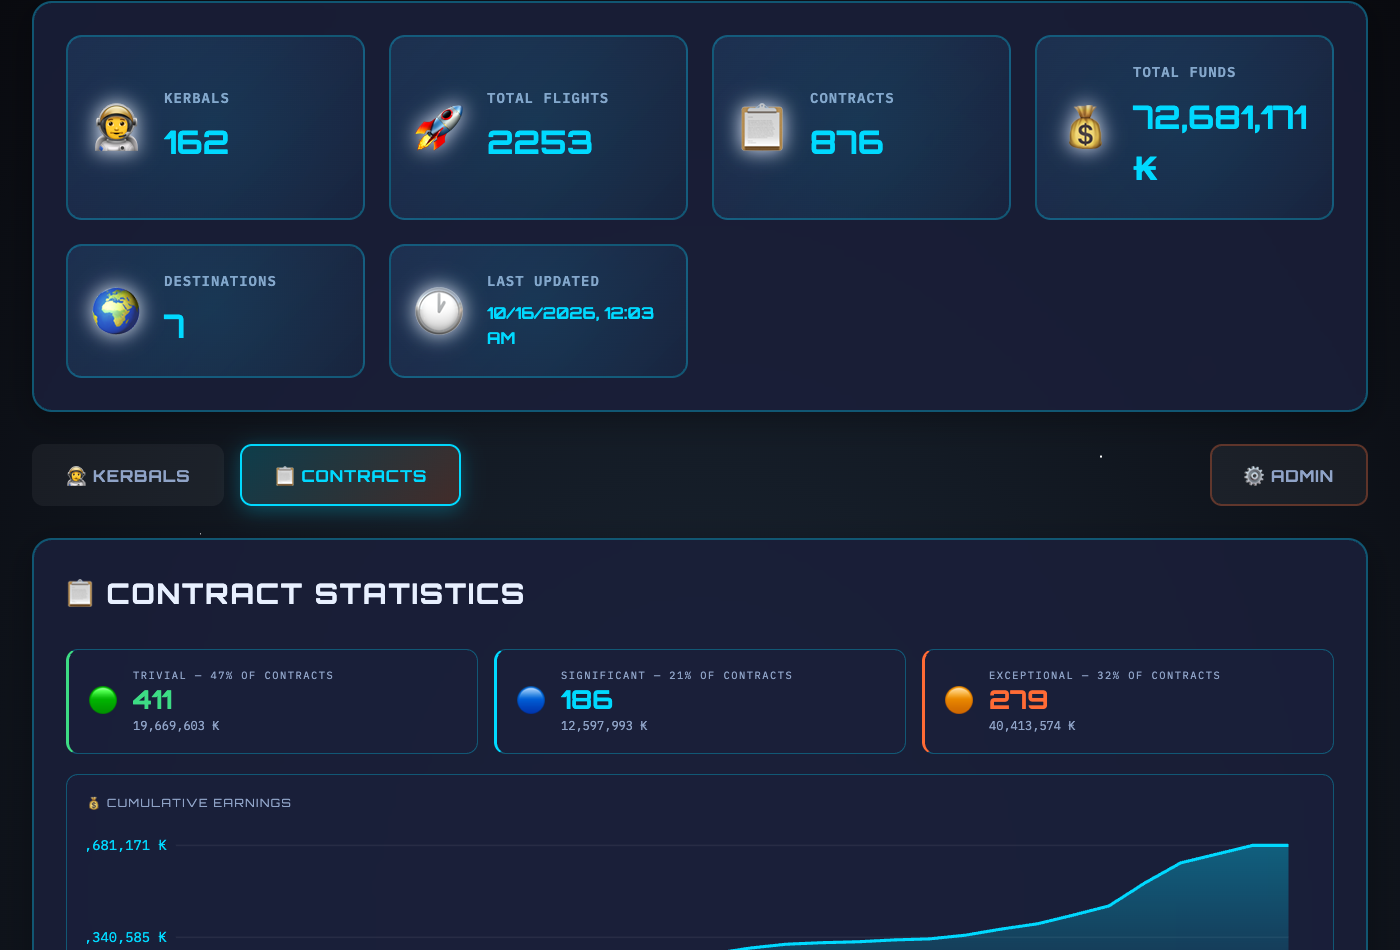
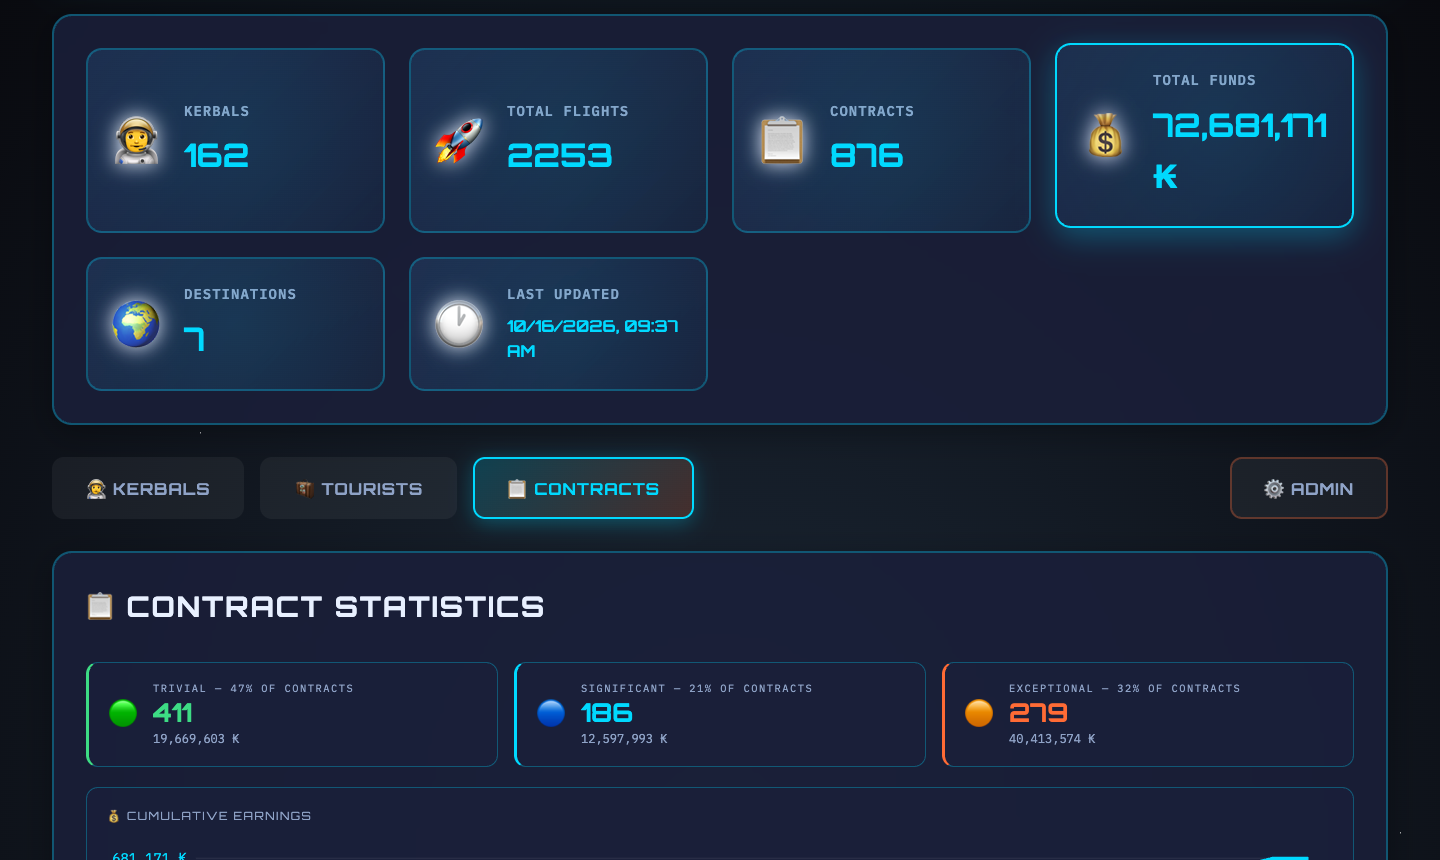
Add Tourist Roster with contract objectives and update README
- Tourist Roster tab: flying tourists show contract objectives per body
  (✓ green = complete, ○ yellow = pending) parsed from active CONTRACT
  blocks; tourists with all objectives done show 🏁 CONTRACT DONE badge
- Returned tourists grouped by contract mission (date, agency, names)
- parse_active_tourism_contracts(): reads KerbalTourParameter /
  KerbalDestinationParameter PARAM nesting from active TourismContracts
- DB: objectives column (JSON) on tourists table with ALTER TABLE migration
- Fix visit counts: mission-level deduplication via body_missions sets
- README: Tourist Roster section, /api/tourists endpoint, updated
  screenshots (kerbals, kerbal-detail, tourists-flying, tourists-returned,
  contracts, contract-detail)

diff --git a/static/app.js b/static/app.js
@@ -493,7 +493,8 @@ function renderTourists(tourists) {
         const avatar = t.gender === 'Female' ? '👩' : '👨';
         const bodyBadge = t.contract_body
             ? `<span class="tourist-body-badge">${escapeHtml(t.contract_body)}</span>` : '';
-        const top3   = t.locations.slice(0, 3);
+        const contractCompleteBadge = t.state === 'Flying' && !(t.objectives || []).length
+            ? `<span class="tourist-state-badge tourist-contract-done">🏁 CONTRACT DONE</span>` : '';
         const locStr = t.current_location && t.current_location !== 'Kerbin (KSC)'
             ? t.current_location : (t.current_location || '');
         return `<div class="tourist-card tourist-card--flying" style="animation-delay:${i * 0.04}s">
@@ -503,6 +504,7 @@ function renderTourists(tourists) {
                     <h3>${escapeHtml(t.name)}</h3>
                     <div class="tourist-badges">
                         <span class="tourist-state-badge ${si.cls}">${si.label}</span>
+                        ${contractCompleteBadge}
                         ${bodyBadge}
                     </div>
                 </div>
@@ -518,8 +520,29 @@ function renderTourists(tourists) {
                 <span class="current-loc-text">${escapeHtml(locStr)}</span>
                 ${t.current_vessel ? `<span class="current-vessel-sep">•</span><span class="current-vessel-name">🚀 ${escapeHtml(t.current_vessel)}</span>` : ''}
             </div>` : ''}
-            ${top3.length ? `<div class="tourist-locs">${top3.map(l =>
-                `<span class="tourist-loc-tag">${escapeHtml(l.location)}</span>`).join('')}</div>` : ''}
+            ${(() => {
+                const objs = t.objectives || [];
+                if (objs.length) {
+                    // Group contract objectives by body, preserve order
+                    const byBody = [];
+                    const seen = {};
+                    for (const o of objs) {
+                        if (!seen[o.body]) { seen[o.body] = []; byBody.push([o.body, seen[o.body]]); }
+                        seen[o.body].push(o);
+                    }
+                    return `<div class="tourist-trip">${byBody.map(([body, os]) =>
+                        `<div class="tourist-trip-body">
+                            <span class="tourist-loc-tag">${escapeHtml(body)}</span>
+                            ${os.map(o => `<span class="tourist-act-tag ${o.complete ? 'act-done' : 'act-pending'}">${o.complete ? '✓' : '○'} ${o.activity}</span>`).join('')}
+                        </div>`).join('')}</div>`;
+                }
+                // Fallback: show flight-log activities if no contract objectives
+                return t.locations.length ? `<div class="tourist-trip">${t.locations.map(l =>
+                    `<div class="tourist-trip-body">
+                        <span class="tourist-loc-tag">${escapeHtml(l.location)}</span>
+                        ${l.activities && l.activities.length ? l.activities.map(a => `<span class="tourist-act-tag">${a}</span>`).join('') : ''}
+                    </div>`).join('')}</div>` : '';
+            })()}
         </div>`;
     }).join('');
 
@@ -547,7 +570,7 @@ function renderTourists(tourists) {
                     <span class="tcg-count">${g.tourists.length} tourist${g.tourists.length > 1 ? 's' : ''}</span>
                 </div>
                 <div class="tcg-names">${g.tourists.map(t =>
-                    `<span class="tcg-name">${t.gender === 'Female' ? '👩' : '👨'} ${escapeHtml(t.name)}</span>`).join('')}
+                    `<span class="tcg-name">${escapeHtml(t.name)}</span>`).join('')}
                 </div>
             </div>`).join('')}
         </div>` : '';

diff --git a/static/styles.css b/static/styles.css
@@ -1729,6 +1729,50 @@ body {
     color: var(--text-secondary);
 }
 
+.tourist-trip {
+    margin-top: 0.65rem;
+    display: flex;
+    flex-direction: column;
+    gap: 0.35rem;
+}
+
+.tourist-trip-body {
+    display: flex;
+    flex-wrap: wrap;
+    align-items: center;
+    gap: 0.3rem;
+}
+
+.tourist-act-tag {
+    font-size: 0.65rem;
+    padding: 0.1rem 0.4rem;
+    background: rgba(0, 212, 255, 0.08);
+    border: 1px solid rgba(0, 212, 255, 0.25);
+    border-radius: 3px;
+    color: var(--accent-cyan);
+    font-family: 'IBM Plex Mono', monospace;
+    text-transform: uppercase;
+    letter-spacing: 0.03em;
+}
+
+.tourist-contract-done {
+    background: rgba(0, 255, 136, 0.12);
+    color: var(--success);
+    border: 1px solid rgba(0, 255, 136, 0.35);
+}
+
+.tourist-act-tag.act-done {
+    background: rgba(0, 255, 136, 0.1);
+    border-color: rgba(0, 255, 136, 0.35);
+    color: var(--success);
+}
+
+.tourist-act-tag.act-pending {
+    background: rgba(255, 217, 61, 0.08);
+    border-color: rgba(255, 217, 61, 0.3);
+    color: var(--warning);
+}
+
 .tourist-awaiting {
     background: rgba(255, 217, 61, 0.12);
     color: var(--warning);

diff --git a/sfs_parser.py b/sfs_parser.py
@@ -69,6 +69,8 @@ class TouristRecord:
     locations: Dict[str, int] = field(default_factory=dict)
     body_missions: Dict[str, set] = field(default_factory=dict)
     body_activities: Dict[str, set] = field(default_factory=dict)
+    objectives: List[Dict] = field(default_factory=list)
+    # e.g. [{'body': 'Mun', 'activity': 'Orbit', 'complete': True}, ...]
 
 
 @dataclass
@@ -451,6 +453,90 @@ class SFSParser:
                     indent_level += 1
         return tourists
 
+    def parse_active_tourism_contracts(self) -> Dict[str, List[Dict]]:
+        """
+        Parse objectives from active TourismContract blocks (CONTRACT, not CONTRACT_FINISHED).
+        Returns: {tourist_name: [{'body': str, 'activity': str, 'complete': bool}]}
+        Objectives are ordered per-tourist as they appear in the contract.
+        """
+        result: Dict[str, List[Dict]] = {}
+
+        with open(self.filepath, 'r', encoding='utf-8', errors='ignore') as f:
+            in_contracts     = False
+            in_contract      = False
+            contract_is_tour = False
+            indent_level     = 0
+            current_tourist  = None
+            dest_body_idx    = None
+            dest_type        = ''
+            dest_state       = 'Incomplete'
+
+            for line in f:
+                s = line.strip()
+
+                if s.startswith('}'):
+                    indent_level -= 1
+
+                    if in_contract:
+                        if indent_level == 3:
+                            # Closing a KerbalDestinationParameter block → record objective
+                            if (contract_is_tour and current_tourist
+                                    and dest_type and dest_body_idx is not None):
+                                body_name = BODY_NAMES.get(dest_body_idx, '')
+                                if body_name:
+                                    result.setdefault(current_tourist, []).append({
+                                        'body':     body_name,
+                                        'activity': dest_type,
+                                        'complete': dest_state == 'Complete',
+                                    })
+                            dest_body_idx = None
+                            dest_type     = ''
+                            dest_state    = 'Incomplete'
+
+                        elif indent_level == 2:
+                            # Closing a KerbalTourParameter block
+                            current_tourist = None
+
+                        elif indent_level == 1:
+                            # Closing the CONTRACT block
+                            in_contract      = False
+                            contract_is_tour = False
+
+                    elif in_contracts and indent_level == 0:
+                        in_contracts = False
+                        break
+
+                elif s == 'CONTRACTS':
+                    in_contracts = True
+                    indent_level = 0
+
+                elif in_contracts and not in_contract and s == 'CONTRACT':
+                    in_contract = True   # indent_level is already 1 (inside CONTRACTS body)
+
+                elif in_contract:
+                    if indent_level == 2 and s.startswith('type =') and 'TourismContract' in s:
+                        contract_is_tour = True
+
+                    elif indent_level == 3 and contract_is_tour:
+                        if s.startswith('kerbalName ='):
+                            current_tourist = s.split('=', 1)[1].strip()
+
+                    elif indent_level == 4 and contract_is_tour:
+                        if s.startswith('targetBody ='):
+                            try:
+                                dest_body_idx = int(s.split('=', 1)[1].strip())
+                            except ValueError:
+                                pass
+                        elif s.startswith('targetType ='):
+                            dest_type = s.split('=', 1)[1].strip()
+                        elif s.startswith('state ='):
+                            dest_state = s.split('=', 1)[1].strip()
+
+                if s.startswith('{'):
+                    indent_level += 1
+
+        return result
+
     def parse_vessel_assignments(self, crew: dict) -> None:
         """Determines current location and vessel for each assigned crew member (kerbals or tourists)."""
         location_map: Dict[str, str] = {}
@@ -814,6 +900,13 @@ class SFSParser:
         # Vessel assignments for both kerbals and active tourists
         print("Parsing vessel assignments...")
         self.parse_vessel_assignments({**kerbals, **active_tourists})
+
+        # Parse active contract objectives per tourist
+        print("Parsing active tourism contract objectives...")
+        contract_objectives = self.parse_active_tourism_contracts()
+        for t_name, objectives in contract_objectives.items():
+            if t_name in active_tourists:
+                active_tourists[t_name].objectives = objectives
 
         # Parse rescue dates and current game time
         print("Parsing rescue dates...")

diff --git a/database.py b/database.py
@@ -161,6 +161,7 @@ class DatabaseManager:
                 tourist_id INTEGER NOT NULL,
                 location TEXT NOT NULL,
                 visit_count INTEGER DEFAULT 0,
+                activities TEXT DEFAULT '',
                 FOREIGN KEY (tourist_id) REFERENCES tourists(id),
                 UNIQUE(tourist_id, location)
             )
@@ -168,11 +169,16 @@ class DatabaseManager:
         for col, typedef in [
             ('contract_agent', 'TEXT DEFAULT ""'),
             ('contract_guid',  'TEXT DEFAULT ""'),
+            ('objectives',     'TEXT DEFAULT "[]"'),
         ]:
             try:
                 cursor.execute(f'ALTER TABLE tourists ADD COLUMN {col} {typedef}')
             except Exception:
                 pass
+        try:
+            cursor.execute('ALTER TABLE tourist_locations ADD COLUMN activities TEXT DEFAULT ""')
+        except Exception:
+            pass
 
         # Indici per performance
         cursor.execute('CREATE INDEX IF NOT EXISTS idx_kerbal_name ON kerbals(name)')
@@ -535,19 +541,27 @@ class DatabaseManager:
                 INSERT INTO tourists
                     (name, state, flights, courage, stupidity, gender,
                      current_location, current_vessel, contract_ut, contract_body,
-                     contract_agent, contract_guid, last_updated)
-                VALUES (?, ?, ?, ?, ?, ?, ?, ?, ?, ?, ?, ?, CURRENT_TIMESTAMP)
+                     contract_agent, contract_guid, objectives, last_updated)
+                VALUES (?, ?, ?, ?, ?, ?, ?, ?, ?, ?, ?, ?, ?, CURRENT_TIMESTAMP)
             ''', (name, t.state, t.flights, t.courage, t.stupidity, t.gender,
                   t.current_location, t.current_vessel, t.contract_ut, t.contract_body,
-                  t.contract_agent, t.contract_guid))
+                  t.contract_agent, t.contract_guid,
+                  json.dumps(t.objectives)))
 
             tourist_id = cursor.lastrowid
+            # Ordered activity display: use canonical KSP progression order
+            ACTIVITY_ORDER = ['Flight', 'Suborbit', 'Orbit', 'Flyby', 'Escape',
+                              'Land', 'Splashdown', 'PlantFlag', 'Crash']
             for location, count in t.locations.items():
+                acts = t.body_activities.get(location, set())
+                acts_str = '|'.join(a for a in ACTIVITY_ORDER if a in acts)
                 cursor.execute('''
-                    INSERT INTO tourist_locations (tourist_id, location, visit_count)
-                    VALUES (?, ?, ?)
-                    ON CONFLICT(tourist_id, location) DO UPDATE SET visit_count = excluded.visit_count
-                ''', (tourist_id, location, count))
+                    INSERT INTO tourist_locations (tourist_id, location, visit_count, activities)
+                    VALUES (?, ?, ?, ?)
+                    ON CONFLICT(tourist_id, location) DO UPDATE SET
+                        visit_count = excluded.visit_count,
+                        activities  = excluded.activities
+                ''', (tourist_id, location, count, acts_str))
 
         self.conn.commit()
 
@@ -577,13 +591,21 @@ class DatabaseManager:
                 'contract_body':    row['contract_body'] or '',
                 'contract_agent':   row['contract_agent'] or '',
                 'contract_guid':    row['contract_guid'] or '',
+                'objectives':       json.loads(row['objectives'] or '[]'),
                 'locations':        [],
             }
             cursor.execute(
-                'SELECT location, visit_count FROM tourist_locations WHERE tourist_id = ? ORDER BY visit_count DESC',
+                'SELECT location, visit_count, activities FROM tourist_locations WHERE tourist_id = ? ORDER BY visit_count DESC',
                 (t['id'],)
             )
-            t['locations'] = [{'location': r[0], 'count': r[1]} for r in cursor.fetchall()]
+            t['locations'] = [
+                {
+                    'location':   r[0],
+                    'count':      r[1],
+                    'activities': [a for a in (r[2] or '').split('|') if a],
+                }
+                for r in cursor.fetchall()
+            ]
             result.append(t)
         return result
 

diff --git a/README.md b/README.md
@@ -10,10 +10,11 @@ A desktop application for analysing and visualising Kerbal Space Program save-fi
 
 ## Features
 
-- **Kerbal Roster** — star rating (computed from KSP XP), trait badges, missions, locations, join date and service duration per kerbal
-- **Corps Summary** — at-a-glance Pilot / Engineer / Scientist counts split by Assigned vs Available
+- **Kerbal Roster** — star rating (computed from KSP XP), trait badges, missions, locations, join date and service duration per kerbal; corps summary bar (Pilots / Engineers / Scientists, assigned vs available)
+- **Tourist Roster** — live view of flying tourists with contract objectives and completion status per body; returned tourists grouped by contract mission with date and agency
 - **Contracts Dashboard** — visual progression timeline: cumulative earnings, contracts per period, earnings per period, prestige breakdown, and top destinations
 - **Contract Drill-down** — click any contract type to see its own filtered dashboard; TourismContract shows passenger counts instead of funds
+- **Accurate Visit Counts** — mission-level deduplication: multiple events in the same mission (Flyby + Orbit + Land) count as one visit, not three
 - **Incremental Parsing** — MD5-based cache avoids re-parsing an unchanged save file; force-refresh available
 - **SQLite Database** — stored in the OS user-data directory, survives app updates
 - **Space-Themed UI** — Orbitron/IBM Plex Mono fonts, animated starfield, cyan/orange palette
@@ -23,13 +24,21 @@ A desktop application for analysing and visualising Kerbal Space Program save-fi
 
 ## Screenshots
 
-**Kerbal Roster** — corps summary bar (Pilots / Engineers / Scientists assigned vs available) and crew cards with star rating, missions, service duration, and top destinations
+**Kerbal Roster** — summary stats, corps breakdown (Pilots / Engineers / Scientists assigned vs available), and crew cards sorted by star rating
 
 ![Kerbal Roster](screenshots/kerbals.png)
 
 **Kerbal Detail** — full profile with star level, join date, service time, courage/stupidity bars, and every body visited
 
 ![Kerbal Detail](screenshots/kerbal-detail.png)
+
+**Tourist Roster — Flying** — active tourists with contract objectives per celestial body; ✓ green = completed, ○ yellow = pending; 🏁 badge for tourists whose contract is already fulfilled and awaiting recovery
+
+![Tourist Roster — Flying](screenshots/tourists-flying.png)
+
+**Tourist Roster — Returned** — 600+ historical tourists grouped by contract mission, with KSP date and agency
+
+![Tourist Roster — Returned](screenshots/tourists-returned.png)
 
 **Contract Statistics** — mission summary tiles, cumulative earnings curve, and per-period activity bars
 
@@ -77,7 +86,7 @@ chmod +x KSP-GameStats-*.AppImage
    - **macOS**: `~/Library/Application Support/Steam/steamapps/common/Kerbal Space Program/saves/<save-name>/persistent.sfs`
    - **Windows**: `%ProgramFiles(x86)%\Steam\steamapps\common\Kerbal Space Program\saves\<save-name>\persistent.sfs`
 3. Click **Configure**, then **Start Parsing**
-4. Switch to the **Kerbals** or **Contracts** tab to explore your data
+4. Switch to the **Kerbals**, **Tourists**, or **Contracts** tab to explore your data
 
 The database is stored automatically in:
 - macOS: `~/Library/Application Support/ksp-gamestat/ksp_stats.db`
@@ -165,6 +174,7 @@ ksp-gamestat/
 | GET | `/api/summary` | Top-level stats (kerbals, flights, contracts, funds) |
 | GET | `/api/kerbals` | All kerbals (tourists excluded) |
 | GET | `/api/kerbals/<name>` | Single kerbal detail |
+| GET | `/api/tourists` | All tourists with state, objectives, and location history |
 | GET | `/api/contracts` | Contracts aggregated by type |
 | GET | `/api/contracts/progress` | Progression timeline data (optional `?type=` filter) |
 | GET | `/api/health` | Health check |
@@ -179,8 +189,8 @@ GitHub Actions builds the app on every version tag (`v*`). Four runners produce 
 To publish a new release:
 
 ```bash
-git tag v1.1.0
-git push origin v1.1.0
+git tag v1.2.0
+git push origin v1.2.0
 ```
 
 Then review and publish the draft release on GitHub.
@@ -193,7 +203,7 @@ Then review and publish the draft release on GitHub.
 
 **"File not found"** — use the absolute path to `persistent.sfs`; verify the file exists and is readable.
 
-**Database issues** — delete `ksp_stats.db` from the user-data directory and re-parse. The schema is recreated automatically.
+**Database issues** — delete `ksp_stats.db` from the user-data directory and re-parse. The schema is recreated automatically with migrations.
 
 **Backend does not start (dev mode)** — make sure `npm run build:backend` completed successfully and `dist_pyinstaller/ksp-gamestat-server/` exists.
 
